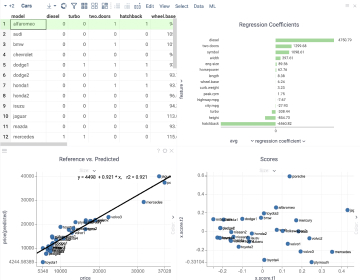
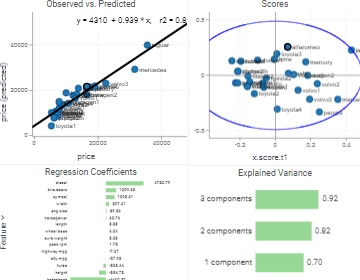
GROK-15189: Tutorials : Multivariate Analysis  (#2781)
* GROK-15189: Tutorials | Demos: Fixed image

Fixed Diff Studio demo image

* GROK-15189: Tutorials : Updated MVA

Updated multivariate analysis tutorial

* GROK-15189: Tutorials | MVA: Update results

Updated results of multivariate analysis tutorial

* GROK-15189: Tutorials | Demo: MVA

MVA demo card is updated

* GROK-15189: Tutorials | Demo: MVA

Updated interactivity of the MVA tutorial

* GROK-15189: Tutorials | MVA: Bump version

Updated version & changelog

* GROK-15189: Tutorials | MVA: Scipped failed test

Failed test for shapeMap demo is skipped

* GROK-15189: Tutorials | MVA: Scipped failed test

Failed test for scatterPlot & form demo is skipped

* GitHub Actions: Update packages/Tutorials/package-lock.json

  Workflow Packages 13180
  https://github.com/datagrok-ai/public/actions/runs/8709329238

---------

diff --git a/packages/Tutorials/src/tracks/ml/tutorials/multivariate-analysis.ts b/packages/Tutorials/src/tracks/ml/tutorials/multivariate-analysis.ts
@@ -1,16 +1,15 @@
 import * as grok from 'datagrok-api/grok';
 import * as ui from 'datagrok-api/ui';
 import * as DG from 'datagrok-api/dg';
-import { filter } from 'rxjs/operators';
+import { Observable } from 'rxjs';
 import { Tutorial, TutorialPrerequisites } from '@datagrok-libraries/tutorials/src/tutorial';
 
 
 export class MultivariateAnalysisTutorial extends Tutorial {
   get name() { return 'Multivariate Analysis'; }
   get description() {
-    return 'Multivariate analysis (MVA) is based on the statistical ' +
-    'principle of multivariate statistics, which involves observation ' +
-    'and analysis of more than one statistical outcome variable at a time';
+    return `Multivariate analysis reveals complex interactions and patterns within a dataset. It uses 
+    statistical techniques to explore the relationships among multiple variables.`;
   }
   get steps() { return 7; }
     
@@ -21,38 +20,134 @@ export class MultivariateAnalysisTutorial extends Tutorial {
   protected async _run() {
     this.header.textContent = this.name;
 
-    this.describe('<p>The multivariate uses a statistical method that resembles principal ' +
-      'components regression. Instead of finding hyperplanes of maximum variance ' +
-      'between the response and independent variables, it finds a linear regression ' +
-      'model by projecting the predicted variables and the observable variables to a ' +
-      'new space.</p><p>In the following example, we will predict a car price by its attributes, ' +
-      'and see how different measures are related to each other and to the outcome.</p>');
+    grok.shell.windows.context.visible = false;
+    grok.shell.windows.help.visible = false;
 
-    this.describe(ui.link('More about ' + this.name, this.helpUrl).outerHTML); 
+    this.describe(`Partial Least Squares Regression (PLS) models the relationship 
+    between independent variables (predictors) and dependent variables (responses). Use it 
+    when there are a large number of predictors, multicollinearity among them, and relatively few observations.`);
 
-    const dlg = await this.openDialog('Click on "ML | Analyze | Multivariate Analysis..."',
+    this.describe(ui.link('More about ' + this.name, this.helpUrl).outerHTML);
+
+    const plsDlg = await this.openDialog('Click on "ML | Analyze | Multivariate Analysis..."',
       'Multivariate Analysis (PLS)', this.getMenuItem('ML'));
-    await this.dlgInputAction(dlg, 'Set "Table" to "cars"', 'Table', 'cars');
-    await this.dlgInputAction(dlg, 'Select all columns, except "price", as "Features"', 'Features',
+
+    plsDlg.root.hidden = true;
+    
+    // We create fake dialog that runs analysis (since inputs of the "main" dialog are added using ui.form).
+    const dlg = ui.dialog({title: 'Multivariate Analysis (PLS)', helpUrl: this.helpUrl});
+
+    dlg.add(ui.columnInput('Predict', this.t!, null, () => {}, {
+      filter: (col: DG.Column) => (col.type === DG.COLUMN_TYPE.INT) || (col.type === DG.COLUMN_TYPE.FLOAT)
+    }));
+  
+    dlg.add(ui.columnsInput('Using', this.t!, () => {}, {
+      available: this.t!.columns.toList().filter((col) => 
+        (col.type === DG.COLUMN_TYPE.INT) || (col.type === DG.COLUMN_TYPE.FLOAT)
+      ).map((col) => col.name),
+      checked: [],
+    }));
+  
+    dlg.add(ui.intInput('Components', null, () => {}));
+  
+    dlg.add(ui.columnInput('Names', this.t!, null, () => {}, {
+      filter: (col: DG.Column) => (col.type === DG.COLUMN_TYPE.STRING)
+    }));
+
+    let viewers = [] as DG.Viewer[];
+  
+    dlg.addButton('RUN', () => {
+      dlg.close();
+      plsDlg.getButton('RUN').click();
+
+      setTimeout(() => {
+        viewers = [...(grok.shell.v as DG.TableView).viewers];
+        //console.log(viewers);
+      }, 2000);
+    }, undefined, 'Perform multivariate analysis');
+  
+    dlg.show();
+      
+    await this.dlgInputAction(dlg, 'Set "Predict" to "price"', 'Predict', 'price',
+      'Specify column with the response variable.');
+      
+    await this.dlgInputAction(dlg, 'Select all columns, except "price", as "Using"', 'Using',
       this.t!.columns.names().filter((n: string) => n !== 'model' && n !== 'price').join(','),
-      'Click "All" in the column selection dialog and uncheck "price".');    
-    await this.dlgInputAction(dlg, 'Set "Names" to "model"', 'Names', 'model');
-    await this.dlgInputAction(dlg, 'Set "Predict" to "price"', 'Predict', 'price');
-    await this.dlgInputAction(dlg, 'Set the number of components to "3"', 'Components', '3');
+      `Set columns with predictors' values. Click "All" in the column selection dialog and uncheck "price".`);
 
-    const outcomeDescription = `Once you run the analysis, the following visualizations will appear:
-    <ul style="list-style-type:disc">
-      <li><code>Reference vs. Predicted</code> is a scatter plot with a regression line comparing predicted vs reference outcomes</li>
-      <li><code>Scores</code> is a scatter plot that shows correlation between observations</li>      
-      <li><code>Regression coefficients</code> is a bar chart with regression coefficients</li>
-      <li><code>Loadings</code> is a scatter plot that shows correlation between variables</li>
-    </ul><br>Look into these findings to figure out which variables correlate with each other ` +
-    'and which of them have a greater impact on the outcome.<br>See the context help on the right '+
-    'to learn more about multivariate analysis, or navigate to a documentation page by clicking the "Open in new tab" button.';
+    await this.dlgInputAction(dlg, 'Set the number of components to "3"', 'Components', '3',
+      'Define the number of the latent factors.');
+    
+    await this.dlgInputAction(dlg, 'Set "Names" to "model"', 'Names', 'model',
+      'Select column with data samples names.');
 
-    await this.action('Click "OK" and wait for the analysis to complete.', 
-      grok.functions.onAfterRunAction.pipe(filter((call) => call.func.name === 'PLS')),
-      null, outcomeDescription
-    );
+    await this.action('Press "RUN" and wait for the analysis', dlg.onClose);
+
+    let viewerRoots: HTMLElement[];
+      
+    const viewerMd = [
+      '# Observed vs. Predicted\n\nCloser to the line means better price prediction.',
+      '# Scores\n\n' +      
+      'Similarities & dissimilarities among samples:\n\n' +       
+      "* volvo's are close to each other\n" + 
+      '* porsche & mercedes are different',
+      '# Loadings\n\n' +       
+      'The impact of each feature on the latent factors: higher loading means stronger influence.',
+      '# Regression Coefficients\n\n' +      
+      'Parameters of the obtained linear model:\n\n' +       
+      '* features make different contribution to the prediction\n' +
+      '* "diesel" effects the most',
+      '# Explained Variance\n\n' +       
+      'How well the latent factors fit source data:\n\n' + 
+      '* closer to one means better fit\n' +
+      '* 3 latent components explain 92% of the price variation',
+    ];
+    
+    let idx = 0;
+    let hint: HTMLElement;
+    let msg: HTMLDivElement;
+    let popup: HTMLDivElement;
+    const nextBtn = ui.button('next', () => hint.click(), 'Go to the next viewer');
+    const prevBtn = ui.button('prev', () => {
+      idx -= 2;
+      hint.click();
+    }, 'Go to the previous viewer');
+    const doneBtn = ui.button('done', () => hint.click(), 'Complete this tutorial');
+    const btnsDiv = ui.divH([prevBtn, nextBtn, doneBtn]);
+    btnsDiv.style.marginLeft = 'auto';
+    btnsDiv.style.marginRight = '0';
+
+    const step = () => {
+      if (idx < viewerRoots.length) {
+        msg = ui.divV([ui.markdown(viewerMd[idx]), btnsDiv]);
+        popup = ui.hints.addHint(viewerRoots[idx], msg, 'left');
+        doneBtn.hidden = (idx < viewerRoots.length - 1);
+        nextBtn.hidden = (idx === viewerRoots.length - 1);
+        prevBtn.hidden = (idx < 1);
+        hint = ui.hints.addHintIndicator(popup, undefined, 3000);
+        hint.onclick = () => {
+          popup.remove();
+          ++idx;
+          step();
+        };
+      }
+    };
+
+    setTimeout(async () => {
+      viewerRoots = [
+        viewers[1].root, // Observed vs. Predicted scatterplot
+        viewers[4].root, // Scores scatterplot
+        viewers[3].root, // Loadings scatterplot
+        viewers[2].root, // Regression coeffs bar chart
+        viewers[5].root, // Explained variances bar chart
+      ];
+
+      step();
+    }, 2100);
+    
+    await this.action('Explore each viewer', new Observable((subscriber: any) => {
+      //@ts-ignore
+      $(doneBtn).one('click', () => subscriber.next(true));
+    }), undefined, 'Press "Next" to switch to the next viewer');    
   }
 }

diff --git a/packages/Tutorials/src/package.ts b/packages/Tutorials/src/package.ts
@@ -297,6 +297,7 @@ export async function _statisticsDemo() {
 //name: correlationPlotDemo
 //description: A quick way to assess correlations between all columns at once. Cells are color-coded by the Pearson correlation coefficient or Spearman's rank correlation coefficient . Histograms along the diagonal show the corresponding distribution. Hover over the cell to see the corresponding scatter plot. The grid is sortable. Select columns in the view by selecting corresponding rows.
 //meta.demoPath: Visualization | Statistical |Correlation Plot
+//meta.demoSkip: skip
 export async function _correlationPlotDemo() {
   await viewerDemo(DG.VIEWER.CORR_PLOT);
 }
@@ -325,6 +326,7 @@ export async function _markupDemo() {
 //name: tileViewerDemo
 //description: Visualizes rows as a collection of forms that are positioned as tiles.
 //meta.demoPath: Visualization | General | Tile Viewer
+//meta.demoSkip: skip
 export async function _tileViewerDemo() {
   await viewerDemo(DG.VIEWER.TILE_VIEWER);
 }
@@ -339,6 +341,7 @@ export async function _formDemo() {
 //name: shapeMapDemo
 //description: Shows a map that is applicable for the specified dataset. Typically, it would represent a geographical area (countries, states, counties, etc), but it also supports arbitrary shapes (such as a store floor plan, brain regions, or EEG electrodes).
 //meta.demoPath: Visualization | Geographical | Shape Map
+//meta.demoSkip: skip
 export async function _shapeMapDemo() {
   await viewerDemo(DG.VIEWER.SHAPE_MAP);
 }

diff --git a/packages/Tutorials/CHANGELOG.md b/packages/Tutorials/CHANGELOG.md
@@ -1,5 +1,9 @@
 # Tutorials changelog
 
+## 1.3.25 (2024-04-16)
+
+Updated the Multivariate analysis tutorial.
+
 ## 1.3.24 (2024-04-15)
 
 Fixed demo cards' images for Docking and Bio Docking conformations
